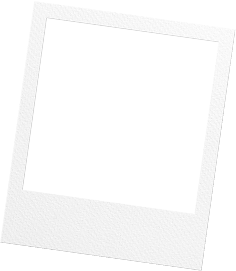
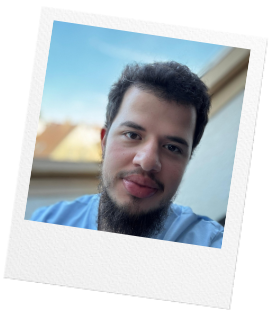
Add Polaroid with image and add blur event for contact field validation

diff --git a/src/app/main/contact-info/contact-info.component.ts b/src/app/main/contact-info/contact-info.component.ts
@@ -8,7 +8,14 @@ import { RouterModule } from '@angular/router';
 @Component({
   selector: 'app-contact-info',
   standalone: true,
-  imports: [FooterComponent, FormsModule, HttpClientModule, CommonModule, TranslateModule, RouterModule],
+  imports: [
+    FooterComponent,
+    FormsModule,
+    HttpClientModule,
+    CommonModule,
+    TranslateModule,
+    RouterModule,
+  ],
   templateUrl: './contact-info.component.html',
   styleUrl: './contact-info.component.scss',
 })
@@ -22,6 +29,10 @@ export class ContactInfoComponent {
   emailPlaceholder = 'youremail@email.com';
   messagePlaceholder = 'Hello Lukas, I am interested in...';
 
+  nameIsNotValid = false;
+  emailIsNotValid = false;
+  messageIsNotValid = false;
+
   http = inject(HttpClient);
 
   contactData = {
@@ -31,12 +42,10 @@ export class ContactInfoComponent {
     agree: false,
   };
 
-
   isGermanActive: boolean = false;
 
   constructor(private translate: TranslateService) {
     this.checkLanguage();
-
 
     this.translate.onLangChange.subscribe(() => {
       this.checkLanguage();
@@ -54,12 +63,10 @@ export class ContactInfoComponent {
     );
     this.contactData.agree = !this.contactData.agree;
     if (filename == 'checkbox-checked.png') {
-      checkboxREF.src =
-        './assets/img/contact-info/checkbox-default.png';
+      checkboxREF.src = './assets/img/contact-info/checkbox-default.png';
       this.isButtonDisabled = true;
     } else {
-      checkboxREF.src =
-        './assets/img/contact-info/checkbox-checked.png';
+      checkboxREF.src = './assets/img/contact-info/checkbox-checked.png';
       this.isButtonDisabled = false;
     }
   }
@@ -93,13 +100,15 @@ export class ContactInfoComponent {
     }
   }
 
-  trimAll(){
-    this.contactData= {
-    name: this.contactData.name.trim(),
-    email: this.contactData.email?.trim(),
-    message: this.contactData.message.trim(),
-    agree: this.contactData.agree,
-  };
+  trimAll() {
+    if (!this.contactData.name == null) {
+      this.contactData = {
+        name: this.contactData.name.trim(),
+        email: this.contactData.email?.trim(),
+        message: this.contactData.message.trim(),
+        agree: this.contactData.agree,
+      };
+    }
   }
 
   validForm(ngForm: NgForm) {
@@ -109,6 +118,8 @@ export class ContactInfoComponent {
         .subscribe({
           next: (response) => {
             ngForm.resetForm();
+            this.toggleCheckbox();
+            this.contactData.agree = false;
           },
           error: (error) => {
             console.error(error);
@@ -117,21 +128,65 @@ export class ContactInfoComponent {
         });
     } else if (ngForm.submitted && ngForm.form.valid && this.mailTest) {
       ngForm.resetForm();
+      this.toggleCheckbox();
+      this.contactData.agree = false;
     }
   }
 
   notValidForm(ngForm: NgForm) {
     if (!this.contactData.name) {
-      this.namePlaceholder = this.translate.instant('contact-me.form.placeholder-warning.name-warning');
+      this.namePlaceholder = this.translate.instant(
+        'contact-me.form.placeholder-warning.name-warning'
+      );
     }
-    if (!this.contactData.email) {
+    if (!this.contactData.email && this.contactData.email != null) {
       this.contactData.email.trim();
-      this.emailPlaceholder = this.translate.instant('contact-me.form.placeholder-warning.email-warning') ;
+      this.emailPlaceholder = this.translate.instant(
+        'contact-me.form.placeholder-warning.email-warning'
+      );
     }
     if (!this.contactData.message) {
-
-      this.messagePlaceholder = this.translate.instant('contact-me.form.placeholder-warning.message-warning')  ;   ;
+      this.messagePlaceholder = this.translate.instant(
+        'contact-me.form.placeholder-warning.message-warning'
+      );
     }
+  }
+
+  namePlaceHolderNotValid() {
+    this.trimAll();
+    if (!this.contactData.name) {
+      this.namePlaceholder = this.translate.instant(
+        'contact-me.form.placeholder-warning.name-warning'
+      );
+      return true;
+    }
+    return false;
+  }
+
+  emailNotValid() {
+    this.trimAll();
+    console.log("yoo");
+    
+    if (!this.contactData.email && this.contactData.email != null) {
+      this.contactData.email.trim();
+      this.emailPlaceholder = this.translate.instant(
+        'contact-me.form.placeholder-warning.email-warning'
+      );
+      return true;
+    }
+
+    return false;
+  }
+
+  messageNotValid() {
+ 
+    if (!this.contactData.message) {
+      this.messagePlaceholder = this.translate.instant(
+        'contact-me.form.placeholder-warning.message-warning'
+      );
+      return true;
+    }
+    return false;
   }
 
   disabledClick() {

diff --git a/src/app/main/contact-info/contact-info.component.html b/src/app/main/contact-info/contact-info.component.html
@@ -32,7 +32,8 @@
             <label for="name">{{'contact-me.form.name.name-q'| translate}}</label>
             <input
               [(ngModel)]="contactData.name"
-               [ngClass] = "{'input-error': !contactData.name && contactForm.touched && formSubmitted && contactData.name.trim() == ''}"
+               [ngClass] = "{'input-error': !contactData.name && contactForm.touched && nameIsNotValid}"
+               (blur) = "nameIsNotValid = namePlaceHolderNotValid()"
               type="text"
               id="name"
               name="name"
@@ -49,7 +50,8 @@
             <label for="email">{{'contact-me.form.email.email-q'| translate}}</label>
             <input
               [(ngModel)]="contactData.email"
-              [ngClass] = "{'input-error': !contactData.email && contactForm.touched && formSubmitted && contactData.email.trim() == ''}"
+              [ngClass] = "{'input-error': !contactData.email && contactForm.touched && emailIsNotValid}"
+              (blur) = "emailIsNotValid = emailNotValid()"
               type="text"
               id="email"
               name="email"
@@ -62,7 +64,8 @@
             <label for="message">{{'contact-me.form.message.message-q'| translate}}</label>
             <input
               [(ngModel)]="contactData.message"
-              [ngClass] = "{'input-error': !contactData.message && contactForm.touched  && formSubmitted && contactData.message.trim() == ''}"
+              [ngClass] = "{'input-error': !contactData.message && contactForm.touched && messageIsNotValid }"
+              (blur)="messageIsNotValid = messageNotValid()"
               type="text"
               name="message"
               id="message"

diff --git a/src/app/main/hero/hero.component.scss b/src/app/main/hero/hero.component.scss
@@ -223,7 +223,7 @@
       @media (max-width: 450px) {
         font-size: 52px;
       }
-       @media (max-width: 400px) {
+      @media (max-width: 400px) {
         font-size: 40px;
       }
     }
@@ -343,13 +343,13 @@
         font-size: 72px !important;
         width: 1em;
       }
-       @media (max-width: 500px) {
+      @media (max-width: 500px) {
         font-size: 60px !important;
       }
       @media (max-width: 450px) {
         font-size: 50px !important;
       }
-        @media (max-width: 400px) {
+      @media (max-width: 400px) {
         font-size: 40px !important;
       }
     }
@@ -435,13 +435,18 @@
   @media (max-width: 850px) {
     position: relative;
     display: block;
-    margin-top: 50px;
+    margin-top: 20px;
   }
 
   > img {
     display: block;
     max-width: 100%;
     height: auto;
+    filter: grayscale(100%);
+    &:hover {
+      animation: polaroidImage 2s ease-in-out forwards;
+      filter: grayscale(0%);
+    }
   }
 
   > span {
@@ -454,6 +459,36 @@
     font-size: 24px;
     transform: rotate(8deg);
     font-family: "Kalam";
+  }
+}
+
+.polaroid {
+  > img {
+    filter: grayscale(100%);
+    &:hover {
+      animation: polaroidImage 1s ease-in-out forwards;
+      filter: grayscale(0%);
+    }
+  }
+}
+@keyframes polaroidImage {
+  0% {
+    filter: grayscale(0%) brightness(120%);
+  }
+  10% {
+    filter: grayscale(0%) brightness(100%);
+  }
+  25% {
+    filter: grayscale(0%) brightness(120%);
+  }
+  40% {
+    filter: grayscale(0%) brightness(100%);
+  }
+  60% {
+    filter: grayscale(0%) brightness(120%);
+  }
+  100% {
+    filter: grayscale(0%) brightness(100%);
   }
 }
 

diff --git a/src/styles.scss b/src/styles.scss
@@ -42,3 +42,14 @@ body {
   margin: 0;
   font-family: Roboto, "Helvetica Neue", sans-serif;
 }
+
+
+input:-webkit-autofill,
+input:-webkit-autofill:focus,
+input:-webkit-autofill:hover {
+  -webkit-box-shadow: 0 0 0 1000px transparent inset !important;
+  -webkit-text-fill-color: white !important;
+  caret-color: white !important;
+  border: none !important; 
+  transition: background-color 5000s ease-in-out 0s !important;
+}
